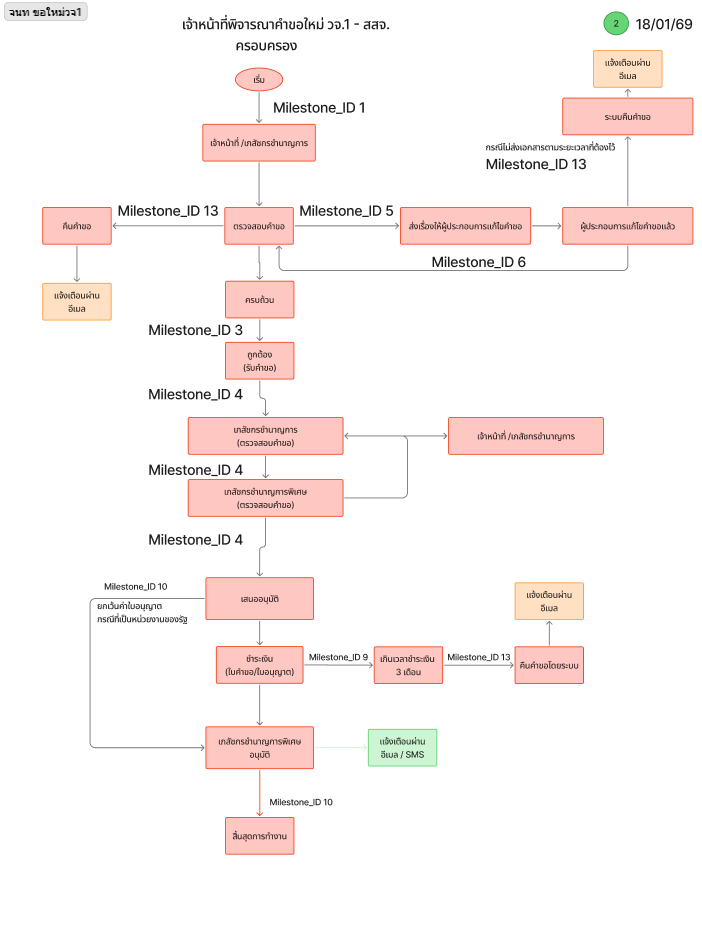
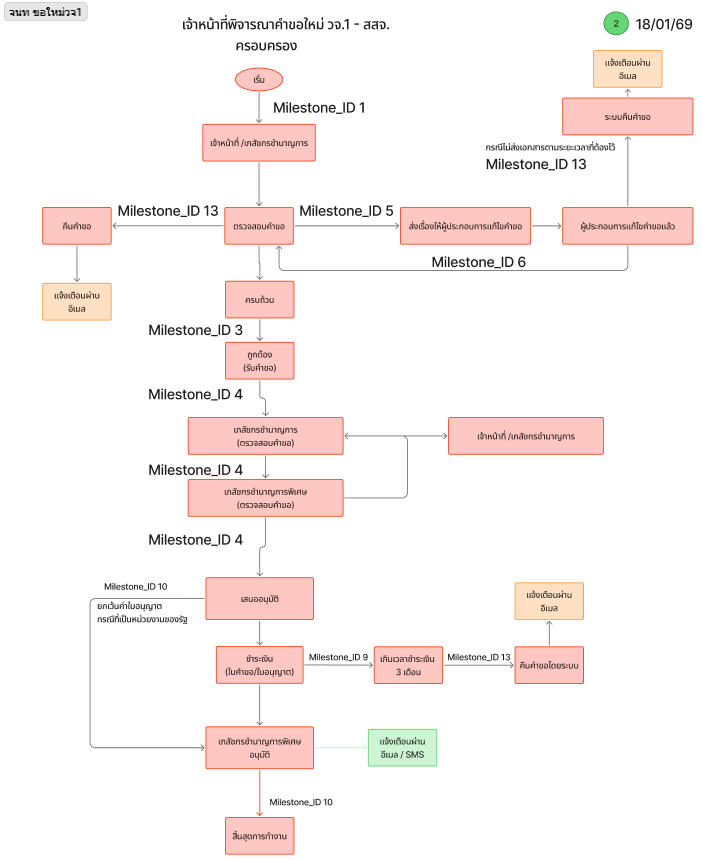
update wf

diff --git a/Condition/Workflow/WORKFLOW.md b/Condition/Workflow/WORKFLOW.md
@@ -232,7 +232,7 @@ li {
 
 <details>
   <summary>📸 คลิกเพื่อดูรูปภาพ Workflow วจ.1-1 ขอใหม่ สสจ.</summary>
-  <img src="วจ1-1_ขอใหม่_สสจ.png" width="75%" style="border: 1px solid blue;">
+  <img src="วจ1-1_ขอใหม่_สสจ.png" width="60%" style="border: 1px solid blue;">
 </details>
 
 | ลำดับ | กอง | ดำเนินการ | Id คำขอ | คำขอ | วัตถุประสงค์ Id | วัตถุประสงค์ | Level / ขั้นตอนการทำงาน | Flow | Flow Id |
